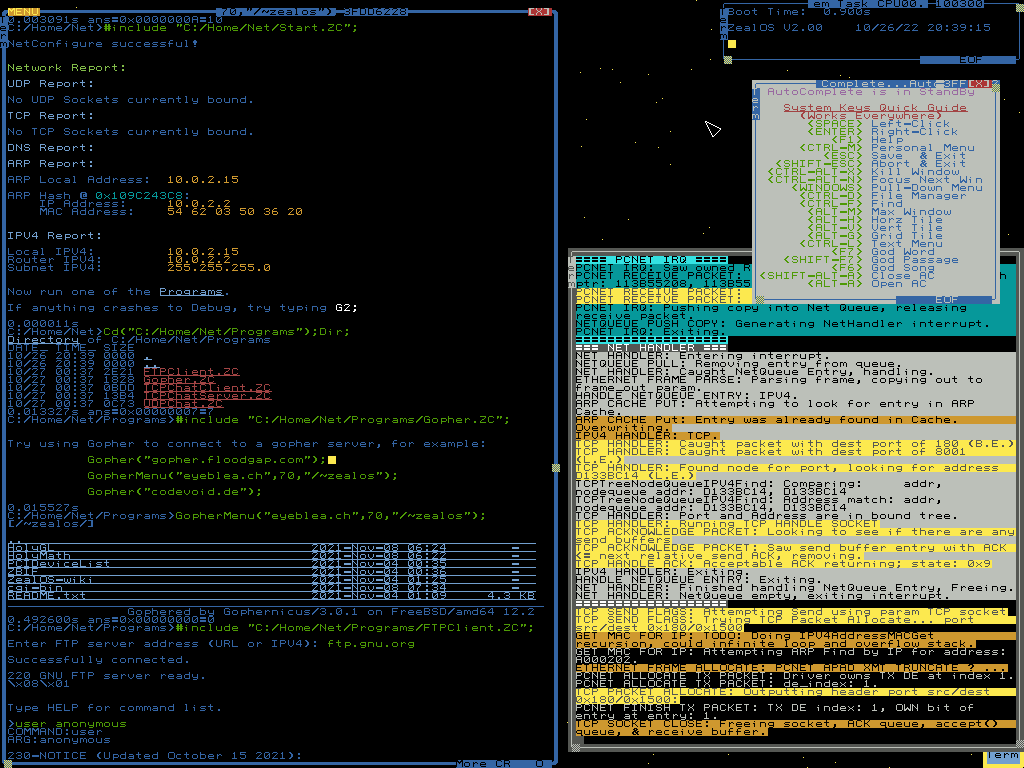
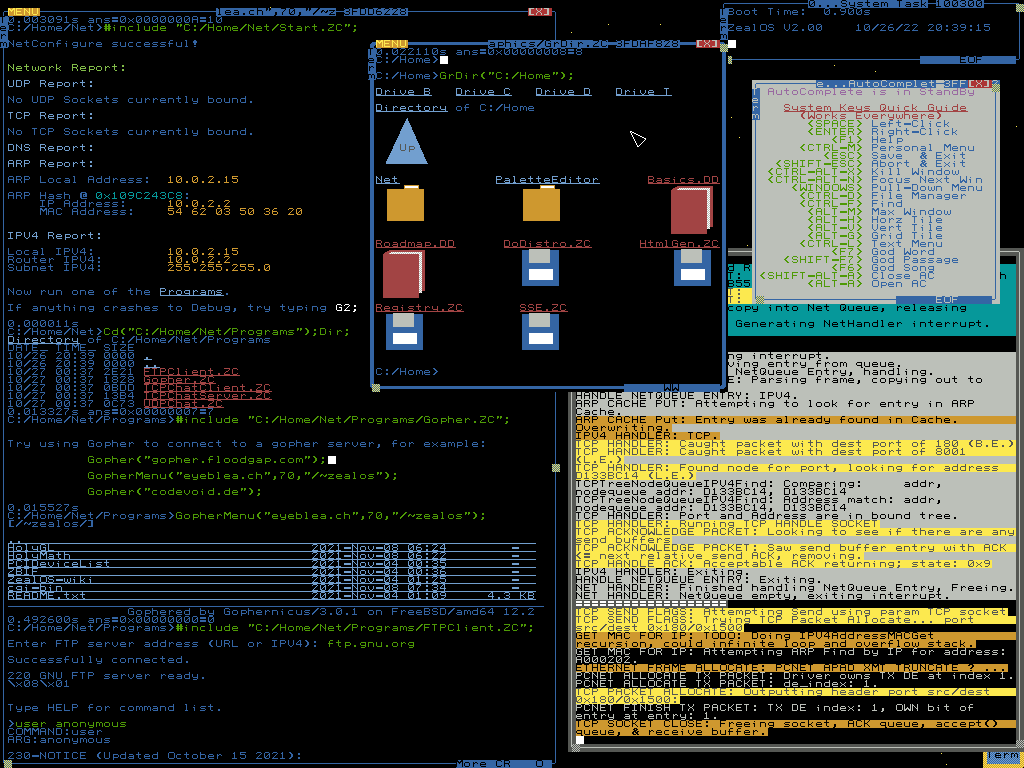
Update README and screenshot3.png

diff --git a/README.md b/README.md
@@ -52,7 +52,7 @@ In July of 2021, ZealOS was forked from ZenithOS.
 
 ## Screenshots
 
-Network Report, Gopher Client, FTP Client, and AutoComplete, with Stars wallpaper
+Network Report, Gopher Client, FTP Client, GrDir, and AutoComplete, with Stars wallpaper
 
 ![](/screenshots/screenshot3.png)
 
